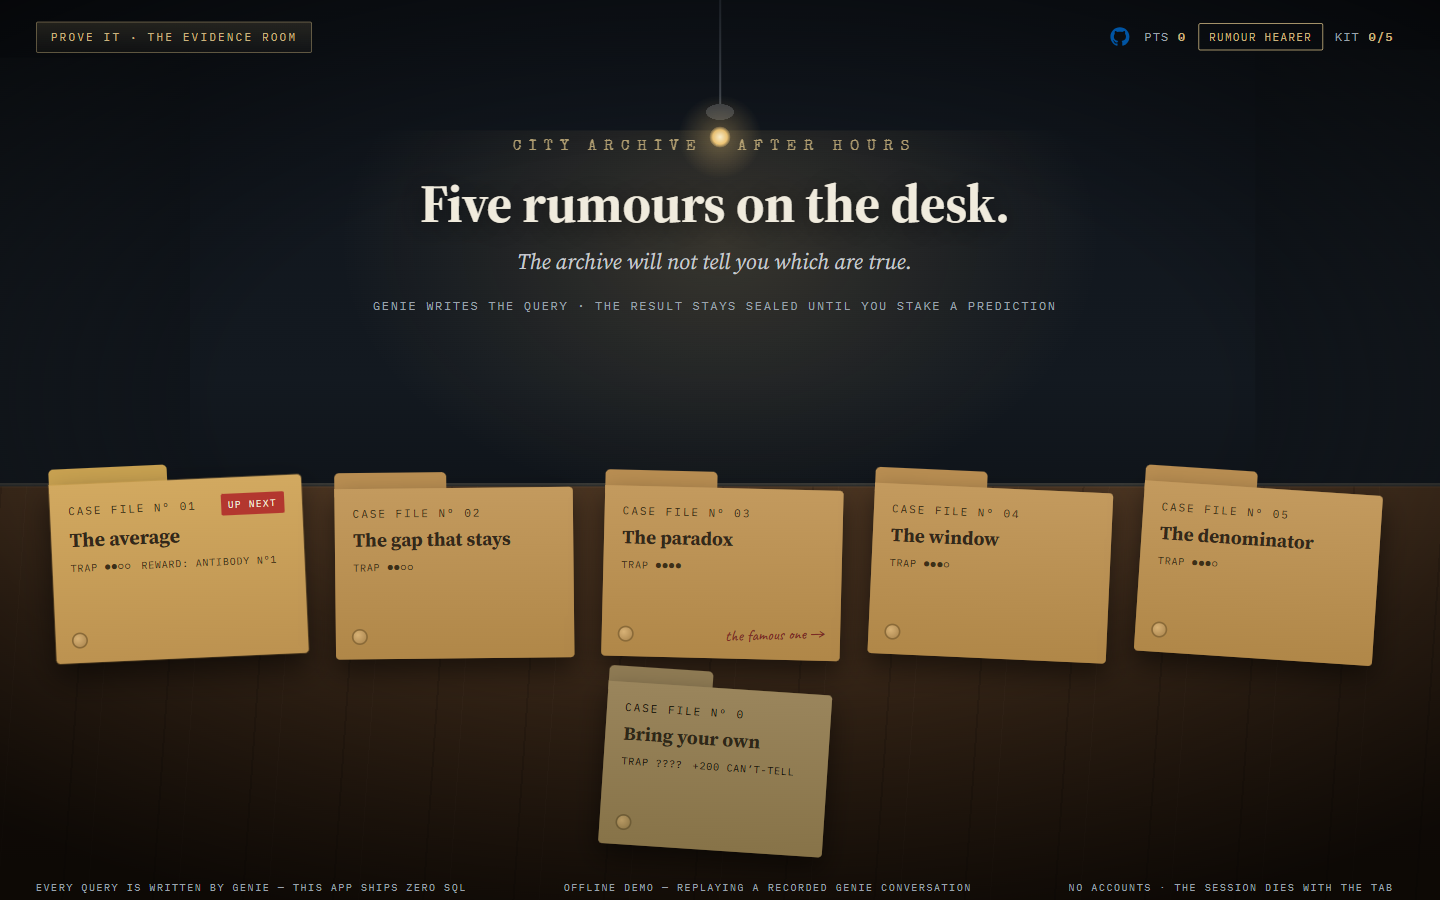
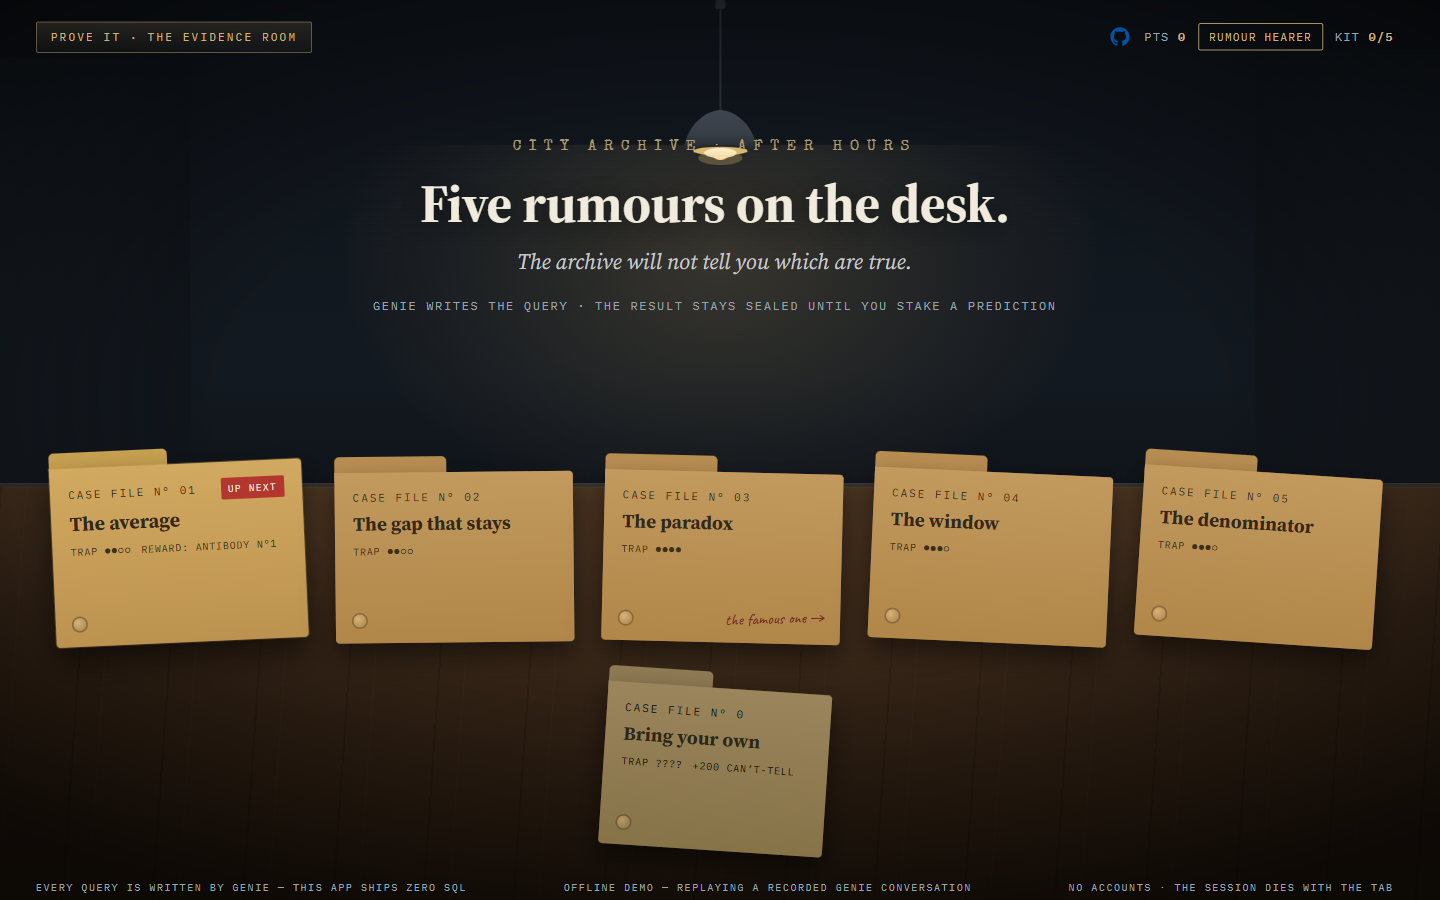
Retake the four screenshots on the current build, and correct two facts
The article's images predated the pendant lamp, the coin stakes and the
board that sizes itself to its cards; all four are retaken from the
same beats of the Berkeley case. Two sentences had drifted from the
code they describe: the contrast test grew from twenty-one pairs to
fifty-five, and the stake control is no longer a thirty-four-pixel row
but a sixty-six-pixel coin.

diff --git a/docs/project-story.md b/docs/project-story.md
@@ -283,16 +283,16 @@ measured in a real browser across all five screens rather than assumed.
 Eight colour pairs sat below the WCAG AA floor. The caption telling a visitor the demo is a
 recording measured 2.97:1. The sealed evidence bag's own labels measured 3.32:1. Streamlit's
 stock info box measured 2.05:1, and it carried the sentence this whole product exists to
-deliver. All are above the floor now, and a test computes all twenty-one pairs so a future
-repaint cannot quietly undo it.
+deliver. All are above the floor now, and a test computes all fifty-five pairs so a future
+repaint cannot undo it unnoticed.
 
 The rest followed the same rule of measuring first. Every explainable part of a query is
 reachable by keyboard and announces its note through a polite live region. The redacted
 digits on the sealed bag are hidden from assistive technology, because a listener gains
 nothing from "black-square black-square" and the label beside them already says the result
 is sealed. The page has a real top-level heading, which it did not before. The stake
-control's own dot was thirteen pixels; its row is thirty-four now, because a child choosing
-a stake on a tablet should not be able to mis-tap their own bet. Every animation stops under
+control's own dot was thirteen pixels; the stakes are 66-pixel coins now, because a child
+choosing a stake on a tablet should not be able to mis-tap their own bet. Every animation stops under
 `prefers-reduced-motion`.
 
 ## Making you place the number
